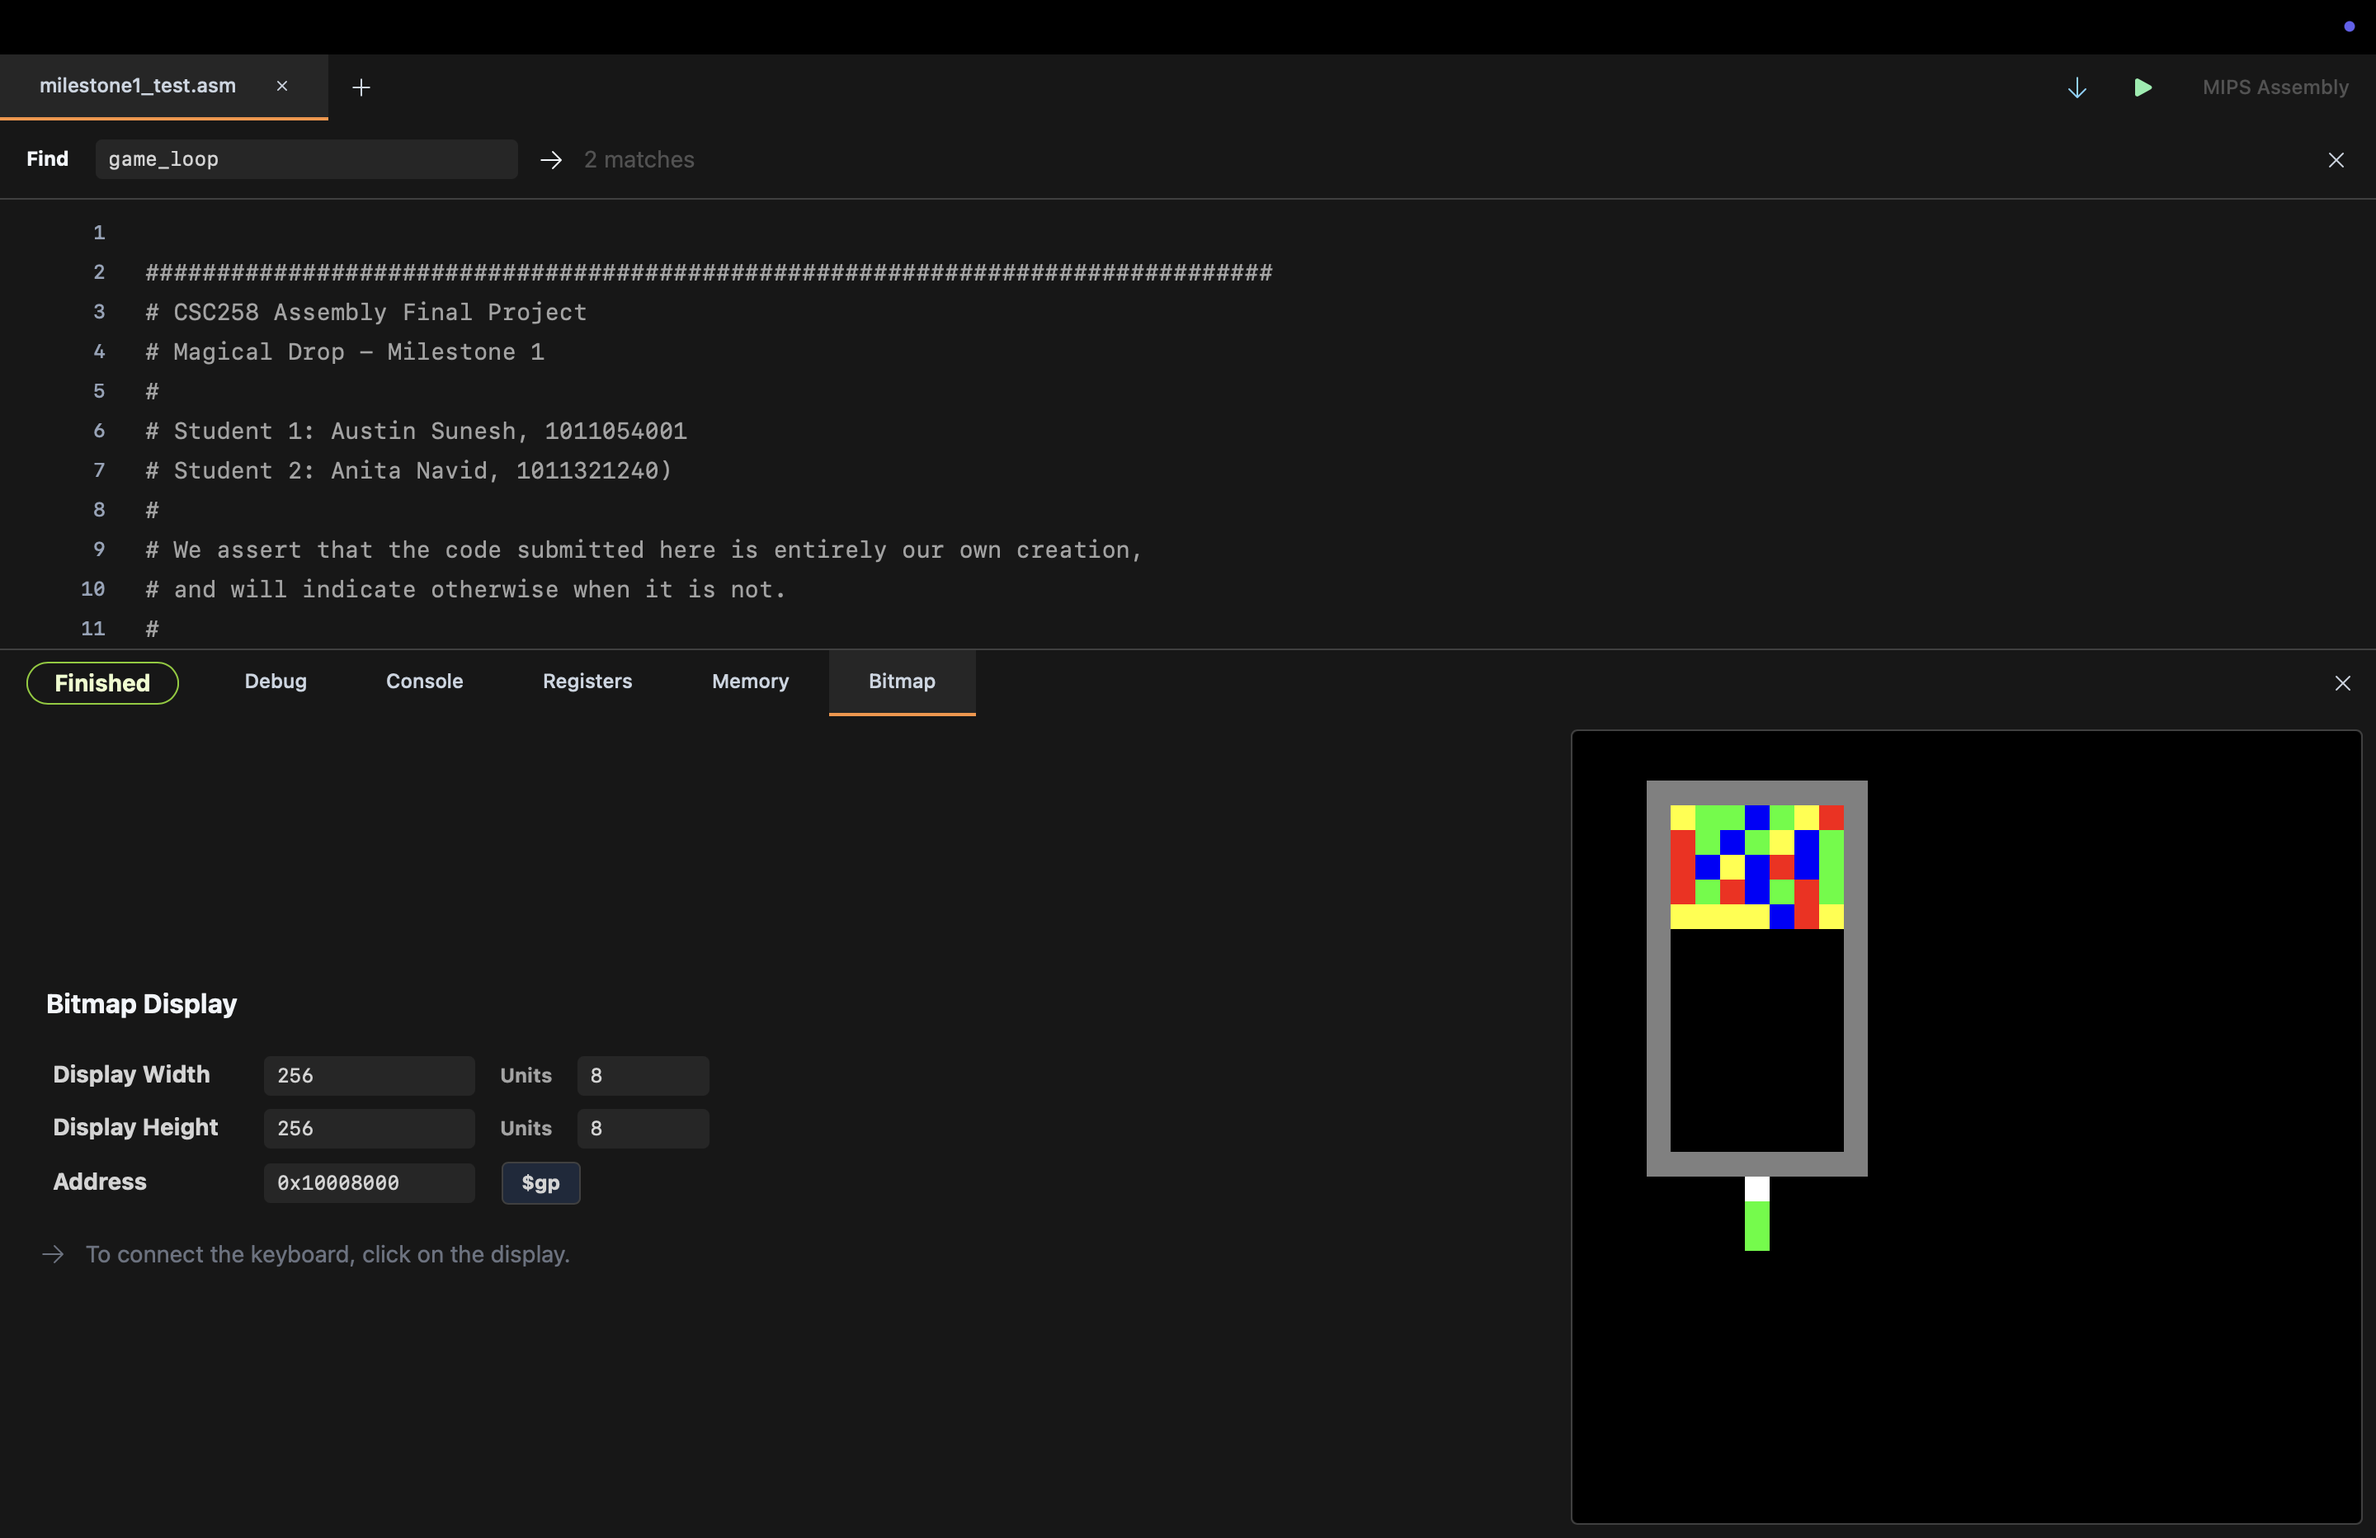
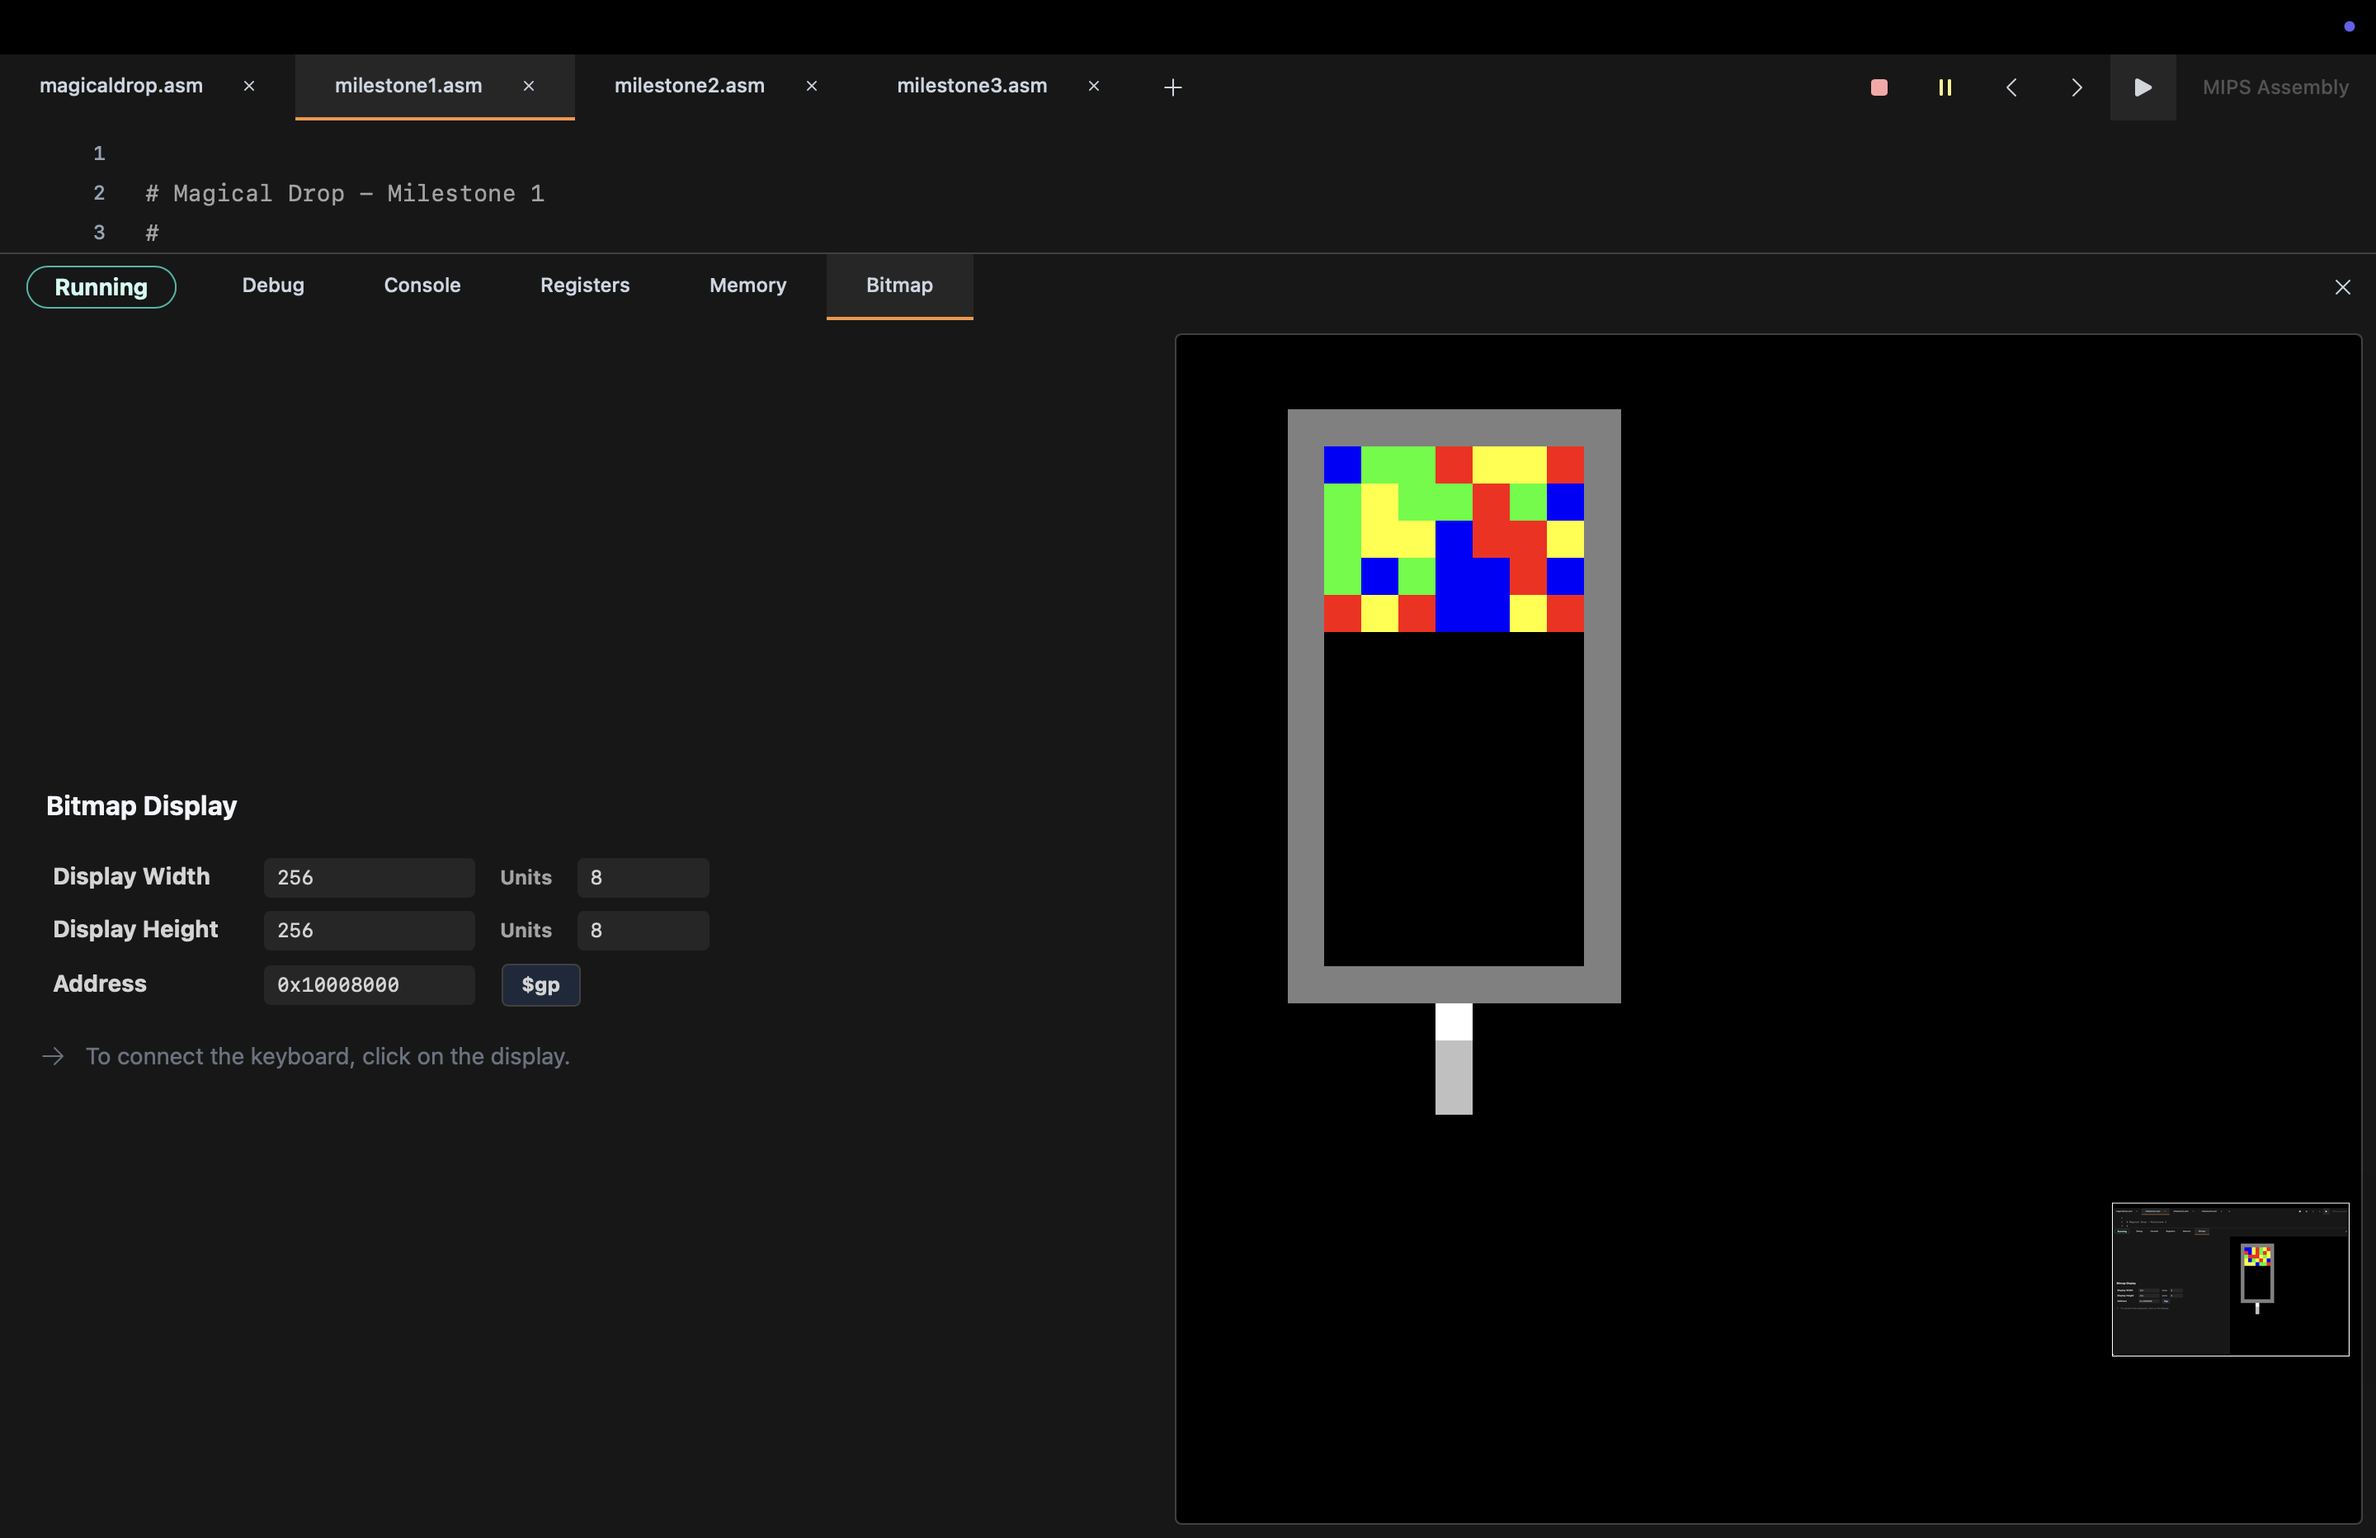
Finalize Magical Drop implementation and update milestone documentation

diff --git a/README.md b/README.md
@@ -19,10 +19,6 @@ Each time the program runs, the starting bubbles are randomly generated using fo
     <td><img src="screenshots/milestone1_demo1.png" width="350"></td>
     <td><img src="screenshots/milestone1_demo2.png" width="350"></td>
   </tr>
-  <tr>
-    <td><img src="screenshots/milestone1_demo3.png" width="350"></td>
-    <td><img src="screenshots/milestone1_demo4.png" width="350"></td>
-  </tr>
 </table>
 
 
@@ -80,7 +76,6 @@ The first 35 cells contain random colour values (1–4), while the remaining 63 
 - Removal of vertical matches of three or more same-coloured bubbles
 - Unmatched bubbles remain on the board
 - Game-over detection after throwing
-- Updated player colour to grey
 
 ### Gameplay
 
